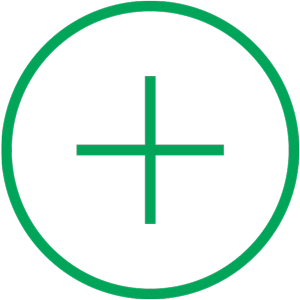
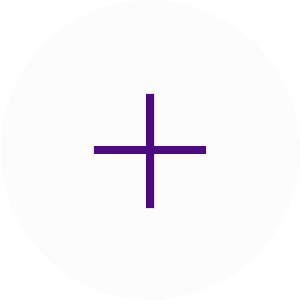
SASS - Global and Header CSS rules complete

Changed region(s): [[0.0, 0.0, 1.0, 1.0], [0.24, 0.24, 0.75, 0.75]]

diff --git a/assets/styles/css/styles.css b/assets/styles/css/styles.css
@@ -1,12 +1,47 @@
+/* Global Rules */
 * {
   margin: 0;
   padding: 0;
-  font-family: Trebuchet MS; }
+  font-family: Trebuchet MS;
+  box-sizing: border-box; }
 
 * li {
   list-style: none; }
 
-img {
-  width: 2%; }
+/* Header */
+header {
+  background-color: #52489C;
+  color: #fff;
+  box-shadow: 2px 2px 5px #aaaaaa;
+  padding: 1em 0;
+  display: grid;
+  grid-template-columns: 1fr minmax(auto, 18em) 1fr;
+  text-align: center; }
+
+header h1 {
+  font-size: 1.7em;
+  font-weight: lighter;
+  padding-left: 1em;
+  margin-top: .4em; }
+
+#filter {
+  background-color: rgba(116, 108, 175, 0.9);
+  width: 80%;
+  height: 50px;
+  border: none;
+  border-radius: 3px;
+  padding-left: 10px;
+  margin-top: .1em;
+  margin-left: .5em;
+  font-size: 1em; }
+
+#filter::placeholder {
+  color: #fff; }
+
+#create img {
+  width: 50px;
+  border-radius: 50%;
+  margin-right: 1.2em;
+  box-shadow: 0px 6px 10px 0px rgba(0, 0, 0, 0.14), 0px 1px 18px 0 rgba(0, 0, 0, 0.12), 0px 3px 5px -1px rgba(0, 0, 0, 0.2); }
 
 /*# sourceMappingURL=styles.css.map */

diff --git a/assets/styles/scss/modules/_header.scss b/assets/styles/scss/modules/_header.scss
@@ -1,0 +1,41 @@
+/* Header */
+
+header {
+  background-color: #52489C;
+  color: #fff;
+  box-shadow: 2px 2px 5px #aaaaaa;
+  padding: 1em 0;
+  display: grid;
+  grid-template-columns: 1fr minmax(auto, 18em) 1fr;
+  text-align: center;
+}
+
+header h1 {
+  font-size: 1.7em;
+  font-weight: lighter;
+  padding-left: 1em;
+  margin-top: .4em;
+}
+
+#filter {
+  background-color: rgba(116,108,175, 0.9);
+  width: 80%;
+  height: 50px;
+  border: none;
+  border-radius: 3px;
+  padding-left: 10px;
+  margin-top: .1em;
+  margin-left: .5em;
+  font-size: 1em;
+}
+
+#filter::placeholder {
+  color: #fff;
+}
+
+#create img{
+  width: 50px;
+  border-radius: 50%;
+  margin-right: 1.2em;
+  box-shadow: 0px 6px 10px 0px rgba(0, 0, 0, 0.14), 0px 1px 18px 0 rgba(0, 0, 0, 0.12), 0px 3px 5px -1px rgba(0, 0, 0, 0.2);
+}

diff --git a/assets/styles/scss/global/_global.scss b/assets/styles/scss/global/_global.scss
@@ -1,13 +1,11 @@
+/* Global Rules */
 * {
   margin: 0;
   padding: 0;
   font-family: Trebuchet MS;
+  box-sizing: border-box;
 }
 
 * li {
   list-style: none;
-}
-
-img {
-  width: 25%;
 }

diff --git a/assets/styles/scss/imports.scss b/assets/styles/scss/imports.scss
@@ -1,2 +1,4 @@
 @import 'global/global';
 @import 'global/variables';
+
+@import 'modules/header'
